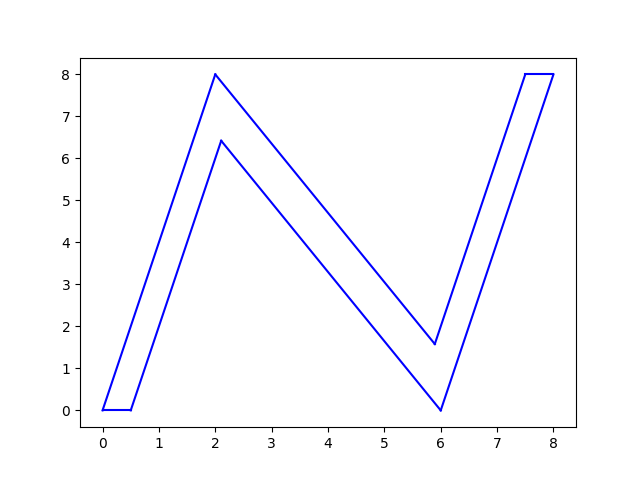
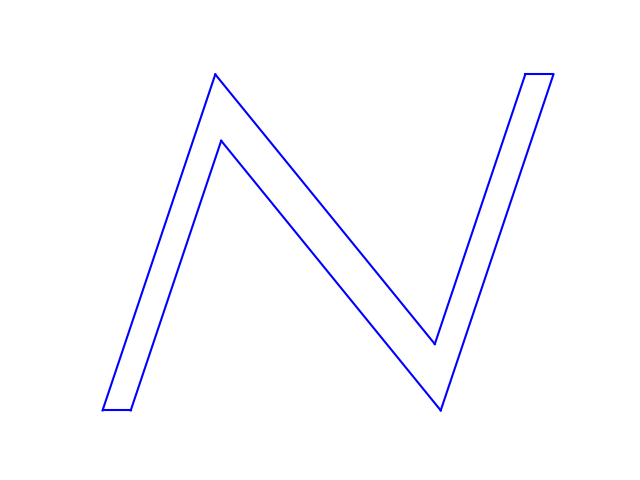
Removed axes from N-transformed

diff --git a/python/linear-algebra/drawN.py b/python/linear-algebra/drawN.py
@@ -33,6 +33,6 @@ for i in range(8):
         if adj[i, j] == 1:
             ax2.plot([SN[0, i], SN[0, j]], [SN[1, i], SN[1, j]], 'b')
 
-ax1.axis("off")
+ax2.axis("off")
 show()
 plt.savefig("n-plot-transformed.png")
